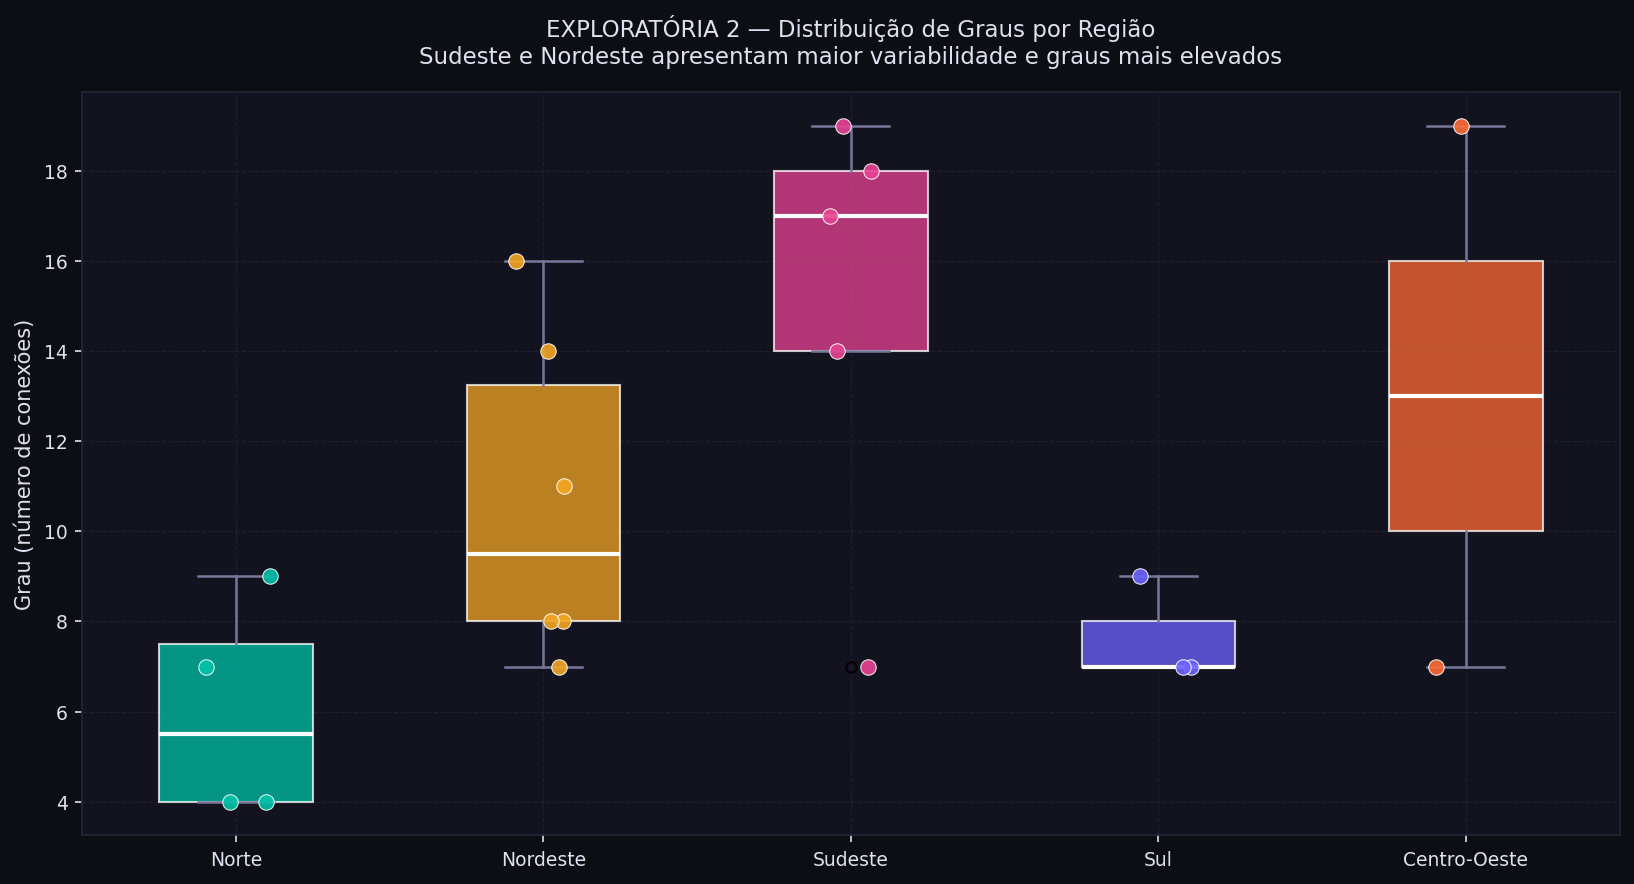
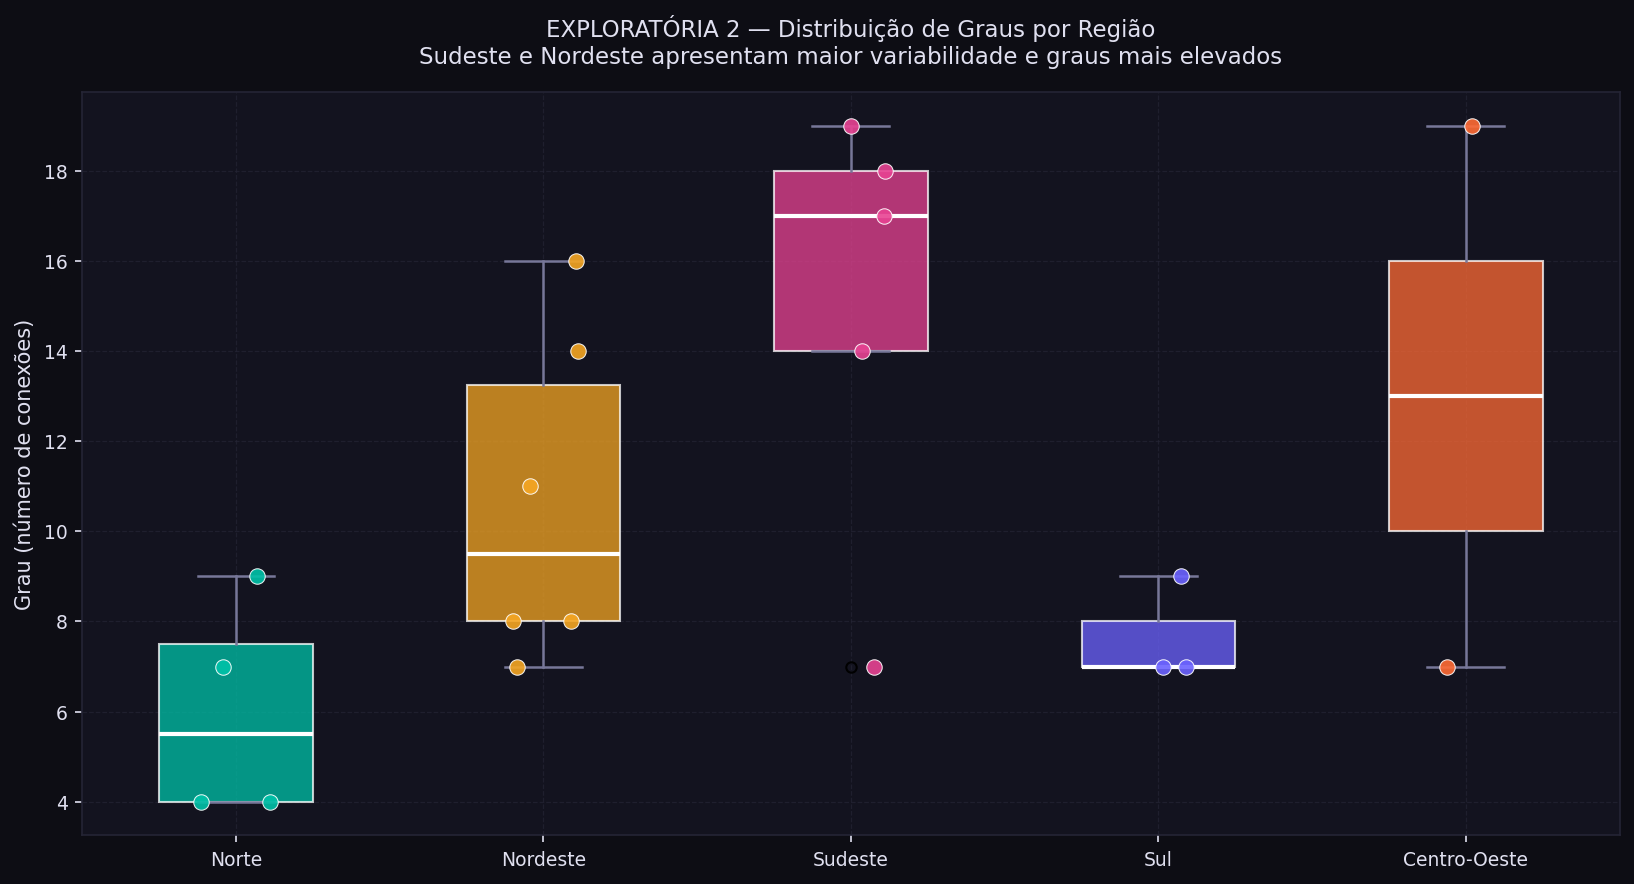
troca de gráfico pedido por Laura

diff --git a/src/analise_etapa10.py b/src/analise_etapa10.py
@@ -220,7 +220,7 @@ def vis_exp2_boxplot_regioes(graus: dict):
 
 def vis_expl1_bolhas(graus: dict, ego: dict, regioes: dict):
     """
-    Cada bolha = uma região.
+    Cada bolha = uma região.    
     Eixo X  = grau médio dos aeroportos da região
     Eixo Y  = densidade média das ego-redes da região
     Tamanho = número de aeroportos (ordem)
@@ -303,64 +303,177 @@ def vis_expl1_bolhas(graus: dict, ego: dict, regioes: dict):
 
 
 
-def vis_expl2_radar(regioes: dict):
-    categorias = ["Aeroportos\n(ordem)", "Conexões\ninternas", "Densidade\ninterna (×10)"]
-    regioes_list = list(regioes.keys())
-    N = len(categorias)
+def vis_expl2_mini_heatmap(regioes: dict):
+    """
+    Heatmap simplificado por região.
+    Apenas 5 regiões × 3 métricas agregadas.
+    """
 
-    # normalizar para o radar
-    def get_vals(r):
-        d = regioes[r]
-        return [
-            d["ordem"],
-            d["tamanho"],
-            d["densidade"] * 10,   # × 10 para ficar na mesma escala
-        ]
+    ordem_regioes = [
+        "Norte",
+        "Nordeste",
+        "Centro-Oeste",
+        "Sul",
+        "Sudeste"
+    ]
 
-    angulos = np.linspace(0, 2 * np.pi, N, endpoint=False).tolist()
-    angulos += angulos[:1]  # fechar o polígono
+    metricas = [
+        "Ordem",
+        "Tamanho",
+        "Densidade"
+    ]
 
-    fig, ax = plt.subplots(figsize=(9, 8), subplot_kw=dict(polar=True))
+    # matriz de dados
+    dados_raw = []
+
+    for r in ordem_regioes:
+
+        dados_raw.append([
+            regioes[r]["ordem"],
+            regioes[r]["tamanho"],
+            regioes[r]["densidade"]
+        ])
+
+    dados_raw = np.array(dados_raw, dtype=float)
+
+    # normalização coluna a coluna
+    dados_norm = np.zeros_like(dados_raw)
+
+    for col in range(dados_raw.shape[1]):
+
+        mn = dados_raw[:, col].min()
+        mx = dados_raw[:, col].max()
+
+        if mx > mn:
+            dados_norm[:, col] = (
+                dados_raw[:, col] - mn
+            ) / (mx - mn)
+        else:
+            dados_norm[:, col] = 0.5
+
+    # figura
+    fig, ax = plt.subplots(figsize=(7, 5.5))
+
     fig.patch.set_facecolor(BG)
     ax.set_facecolor(SURFACE)
-    ax.set_theta_offset(np.pi / 2)
-    ax.set_theta_direction(-1)
-    ax.set_xticks(angulos[:-1])
-    ax.set_xticklabels(categorias, size=9, color=TEXT)
-    ax.tick_params(colors=MUTED)
-    ax.yaxis.set_tick_params(labelcolor=MUTED, labelsize=7)
-    ax.spines["polar"].set_color("#252535")
-    ax.grid(color="#252535", linewidth=0.7)
 
-    for regiao in regioes_list:
-        vals = get_vals(regiao)
-        vals += vals[:1]
-        cor  = REGION_COLORS.get(regiao, "#aaaaaa")
-        ax.plot(angulos, vals, color=cor, linewidth=2, linestyle="solid")
-        ax.fill(angulos, vals, color=cor, alpha=0.12)
-        # rótulo no ponto máximo
-        idx_max = np.argmax(vals[:-1])
-        ax.annotate(regiao,
-                    xy=(angulos[idx_max], vals[idx_max]),
-                    xytext=(angulos[idx_max], vals[idx_max] + 0.8),
-                    fontsize=8, color=cor, ha="center",
-                    fontfamily="monospace")
-
-    ax.set_title(
-        "EXPLANATÓRIA 2 — Perfil Comparativo das Regiões Brasileiras\n"
-        "Centro-Oeste lidera em densidade interna; Nordeste em quantidade de aeroportos",
-        fontsize=10, pad=20, color=TEXT
+    im = ax.imshow(
+        dados_norm,
+        cmap="YlOrRd",
+        aspect="auto",
+        vmin=0,
+        vmax=1
     )
 
-    # legenda
-    handles = [mpatches.Patch(color=REGION_COLORS[r], label=r) for r in regioes_list]
-    ax.legend(handles=handles, loc="upper right", bbox_to_anchor=(1.35, 1.1),
-              framealpha=0.2, facecolor=SURFACE, edgecolor="#252535",
-              labelcolor=TEXT, fontsize=8)
+    # ticks
+    ax.set_xticks(range(len(metricas)))
+    ax.set_xticklabels(
+        metricas,
+        fontsize=10,
+        color=TEXT
+    )
+
+    ax.set_yticks(range(len(ordem_regioes)))
+    ax.set_yticklabels(
+        ordem_regioes,
+        fontsize=10,
+        fontweight="bold"
+    )
+
+    # colorir nomes das regiões
+    for tick, regiao in zip(ax.get_yticklabels(), ordem_regioes):
+
+        tick.set_color(
+            REGION_COLORS.get(regiao, TEXT)
+        )
+
+    # valores dentro das células
+    for i in range(len(ordem_regioes)):
+        for j in range(len(metricas)):
+
+            valor = dados_raw[i, j]
+
+            if j == 2:
+                texto = f"{valor:.3f}"
+            else:
+                texto = f"{valor:.1f}"
+
+            brilho = dados_norm[i, j]
+
+            cor_txt = "#000000" if brilho > 0.45 else "#000000"
+
+            ax.text(
+                j,
+                i,
+                texto,
+                ha="center",
+                va="center",
+                fontsize=11,
+                color=cor_txt,
+                fontfamily="monospace"
+            )
+
+    # bordas das células
+    ax.set_xticks(
+        np.arange(-0.5, len(metricas), 1),
+        minor=True
+    )
+
+    ax.set_yticks(
+        np.arange(-0.5, len(ordem_regioes), 1),
+        minor=True
+    )
+
+    ax.grid(
+        which="minor",
+        color="#252535",
+        linestyle="-",
+        linewidth=1.2
+    )
+
+    ax.tick_params(which="minor", bottom=False, left=False)
+
+    # colorbar
+    cbar = fig.colorbar(
+        im,
+        ax=ax,
+        fraction=0.045,
+        pad=0.04
+    )
+
+    cbar.ax.tick_params(colors=MUTED)
+    cbar.outline.set_edgecolor("#252535")
+
+    cbar.ax.set_ylabel(
+        "Valor normalizado",
+        color=MUTED,
+        fontsize=8
+    )
+
+    # título
+    ax.set_title(
+        "EXPLANATÓRIA 2 — Perfil Regional da Rede Aérea\n"
+        "Sudeste lidera em conectividade; Centro-Oeste apresenta maior coesão local",
+        fontsize=11,
+        pad=14,
+        color=TEXT
+    )
+
+    # bordas
+    for spine in ax.spines.values():
+        spine.set_edgecolor("#252535")
 
     fig.tight_layout()
-    path = OUT / "vis_expl2_radar_regioes.png"
-    fig.savefig(path, dpi=150, bbox_inches="tight", facecolor=BG)
+
+    path = OUT / "vis_expl2_mini_heatmap_regioes.png"
+
+    fig.savefig(
+        path,
+        dpi=150,
+        bbox_inches="tight",
+        facecolor=BG
+    )
+
     plt.close(fig)
     print(f"  ✓ {path.name}")
 
@@ -378,13 +491,13 @@ def main():
 
     print("[3/4] Gerando visualizações explanatórias…")
     vis_expl1_bolhas(graus, ego, regioes)
-    vis_expl2_radar(regioes)
+    vis_expl2_mini_heatmap(regioes)
 
     print("\n✅  Etapa 10 concluída. Arquivos gerados em out/:")
     for f in ["vis_exp1_dispersao_grau_densidade.png",
               "vis_exp2_boxplot_graus_regiao.png",
               "vis_expl1_bolhas_regioes.png",
-              "vis_expl2_radar_regioes.png"]:
+              "vis_expl2_mini_heatmap_regioes.png"]:
         print(f"     {f}")
 
 
